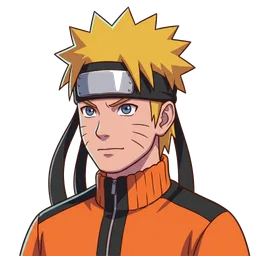
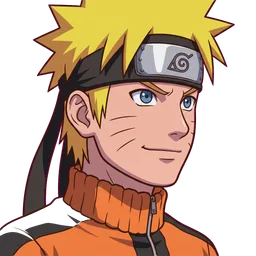
Art: the Academy and the Starters (15 portraits and sprites from the art studio)
Portraits and sprites for Naruto, Sasuke, Sakura and Kakashi in both eras, and Mizuki; assets/index.json, the checklist and art-overrides.json updated by the studio's saves.

diff --git a/docs/ASSET_CHECKLIST.md b/docs/ASSET_CHECKLIST.md
@@ -9,12 +9,12 @@ Generated by `node tools/manifest.mjs` and updated by `node tools/ingest.mjs` (2
 3. `node tools/ingest.mjs` — keys the flat background out (magenta or white, by flood fill from the border), mirrors anything listed with `--flip id`, crops, resizes, writes the WebP and refreshes `assets/index.json` and this file.
 4. Reload the game: the portrait or sprite appears wherever that character shows.
 
-## Portraits (3 / 168)
+## Portraits (10 / 168)
 
 | File | Who | Era | Faces | Have |
 |---|---|---|---|---|
-| `sakura_p1.webp` | Sakura Haruno (Part I) | Part I | right | — |
-| `sakura_p2.webp` | Sakura Haruno (Shippuden) | Shippuden | right | — |
+| `sakura_p1.webp` | Sakura Haruno (Part I) | Part I | right | ✓ |
+| `sakura_p2.webp` | Sakura Haruno (Shippuden) | Shippuden | right | ✓ |
 | `ino_p1.webp` | Ino Yamanaka (Part I) | Part I | right | — |
 | `ino_p2.webp` | Ino Yamanaka (Shippuden) | Shippuden | right | — |
 | `choji_p1.webp` | Choji Akimichi (Part I) | Part I | right | — |
@@ -32,8 +32,8 @@ Generated by `node tools/manifest.mjs` and updated by `node tools/ingest.mjs` (2
 | `jirobo.webp` | Jirobo | Part I | right | — |
 | `naruto_p1.webp` | Naruto Uzumaki (Part I) | Part I | right | ✓ |
 | `naruto_p2.webp` | Naruto Uzumaki (Shippuden) | Shippuden | right | ✓ |
-| `sasuke_p1.webp` | Sasuke Uchiha (Part I) | Part I | right | — |
-| `sasuke_p2.webp` | Sasuke Uchiha (Shippuden) | Shippuden | right | — |
+| `sasuke_p1.webp` | Sasuke Uchiha (Part I) | Part I | right | ✓ |
+| `sasuke_p2.webp` | Sasuke Uchiha (Shippuden) | Shippuden | right | ✓ |
 | `lee_p1.webp` | Rock Lee (Part I) | Part I | right | — |
 | `lee_p2.webp` | Rock Lee (Shippuden) | Shippuden | right | — |
 | `neji_p1.webp` | Neji Hyuga (Part I) | Part I | right | — |
@@ -50,8 +50,8 @@ Generated by `node tools/manifest.mjs` and updated by `node tools/ingest.mjs` (2
 | `tayuya.webp` | Tayuya | Part I | right | — |
 | `kidomaru.webp` | Kidomaru | Part I | right | — |
 | `sakon.webp` | Sakon and Ukon | Part I | right | — |
-| `kakashi_p1.webp` | Kakashi Hatake (Part I) | Part I | right | — |
-| `kakashi_p2.webp` | Kakashi Hatake (Shippuden) | Shippuden | right | — |
+| `kakashi_p1.webp` | Kakashi Hatake (Part I) | Part I | right | ✓ |
+| `kakashi_p2.webp` | Kakashi Hatake (Shippuden) | Shippuden | right | ✓ |
 | `guy_p1.webp` | Might Guy (Part I) | Part I | right | — |
 | `guy_p2.webp` | Might Guy (Shippuden) | Shippuden | right | — |
 | `asuma_p1.webp` | Asuma Sarutobi (Part I) | Part I | right | — |
@@ -108,7 +108,7 @@ Generated by `node tools/manifest.mjs` and updated by `node tools/ingest.mjs` (2
 | `guy_eightgates.webp` | Might Guy (Eight Inner Gates) | Shippuden | right | — |
 | `naruto_sixpaths.webp` | Naruto Uzumaki (Six Paths Sage Mode) | Shippuden | right | — |
 | `naruto_chakramode.webp` | Naruto Uzumaki (Nine-Tails Chakra Mode) | Shippuden | right | — |
-| `e_mizuki.webp` | Mizuki | Shippuden | left | — |
+| `e_mizuki.webp` | Mizuki | Shippuden | left | ✓ |
 | `e_gozu.webp` | Gozu | Part I | left | — |
 | `e_meizu.webp` | Meizu | Part I | left | — |
 | `e_water_clone.webp` | Water Clone | Shippuden | left | — |
@@ -182,12 +182,12 @@ Generated by `node tools/manifest.mjs` and updated by `node tools/ingest.mjs` (2
 | `e_puppet.webp` | Puppet | Shippuden | left | — |
 | `e_itachi_clone.webp` | Itachi (Shadow Clone) | Shippuden | left | — |
 
-## Sprites (1 / 168)
+## Sprites (9 / 168)
 
 | File | Who | Era | Faces | Have |
 |---|---|---|---|---|
-| `sakura_p1.webp` | Sakura Haruno (Part I) | Part I | right | — |
-| `sakura_p2.webp` | Sakura Haruno (Shippuden) | Shippuden | right | — |
+| `sakura_p1.webp` | Sakura Haruno (Part I) | Part I | right | ✓ |
+| `sakura_p2.webp` | Sakura Haruno (Shippuden) | Shippuden | right | ✓ |
 | `ino_p1.webp` | Ino Yamanaka (Part I) | Part I | right | — |
 | `ino_p2.webp` | Ino Yamanaka (Shippuden) | Shippuden | right | — |
 | `choji_p1.webp` | Choji Akimichi (Part I) | Part I | right | — |
@@ -204,9 +204,9 @@ Generated by `node tools/manifest.mjs` and updated by `node tools/ingest.mjs` (2
 | `iruka_p2.webp` | Iruka Umino (Shippuden) | Shippuden | right | — |
 | `jirobo.webp` | Jirobo | Part I | right | — |
 | `naruto_p1.webp` | Naruto Uzumaki (Part I) | Part I | right | ✓ |
-| `naruto_p2.webp` | Naruto Uzumaki (Shippuden) | Shippuden | right | — |
-| `sasuke_p1.webp` | Sasuke Uchiha (Part I) | Part I | right | — |
-| `sasuke_p2.webp` | Sasuke Uchiha (Shippuden) | Shippuden | right | — |
+| `naruto_p2.webp` | Naruto Uzumaki (Shippuden) | Shippuden | right | ✓ |
+| `sasuke_p1.webp` | Sasuke Uchiha (Part I) | Part I | right | ✓ |
+| `sasuke_p2.webp` | Sasuke Uchiha (Shippuden) | Shippuden | right | ✓ |
 | `lee_p1.webp` | Rock Lee (Part I) | Part I | right | — |
 | `lee_p2.webp` | Rock Lee (Shippuden) | Shippuden | right | — |
 | `neji_p1.webp` | Neji Hyuga (Part I) | Part I | right | — |
@@ -223,8 +223,8 @@ Generated by `node tools/manifest.mjs` and updated by `node tools/ingest.mjs` (2
 | `tayuya.webp` | Tayuya | Part I | right | — |
 | `kidomaru.webp` | Kidomaru | Part I | right | — |
 | `sakon.webp` | Sakon and Ukon | Part I | right | — |
-| `kakashi_p1.webp` | Kakashi Hatake (Part I) | Part I | right | — |
-| `kakashi_p2.webp` | Kakashi Hatake (Shippuden) | Shippuden | right | — |
+| `kakashi_p1.webp` | Kakashi Hatake (Part I) | Part I | right | ✓ |
+| `kakashi_p2.webp` | Kakashi Hatake (Shippuden) | Shippuden | right | ✓ |
 | `guy_p1.webp` | Might Guy (Part I) | Part I | right | — |
 | `guy_p2.webp` | Might Guy (Shippuden) | Shippuden | right | — |
 | `asuma_p1.webp` | Asuma Sarutobi (Part I) | Part I | right | — |
@@ -281,7 +281,7 @@ Generated by `node tools/manifest.mjs` and updated by `node tools/ingest.mjs` (2
 | `guy_eightgates.webp` | Might Guy (Eight Inner Gates) | Shippuden | right | — |
 | `naruto_sixpaths.webp` | Naruto Uzumaki (Six Paths Sage Mode) | Shippuden | right | — |
 | `naruto_chakramode.webp` | Naruto Uzumaki (Nine-Tails Chakra Mode) | Shippuden | right | — |
-| `e_mizuki.webp` | Mizuki | Shippuden | left | — |
+| `e_mizuki.webp` | Mizuki | Shippuden | left | ✓ |
 | `e_gozu.webp` | Gozu | Part I | left | — |
 | `e_meizu.webp` | Meizu | Part I | left | — |
 | `e_water_clone.webp` | Water Clone | Shippuden | left | — |
